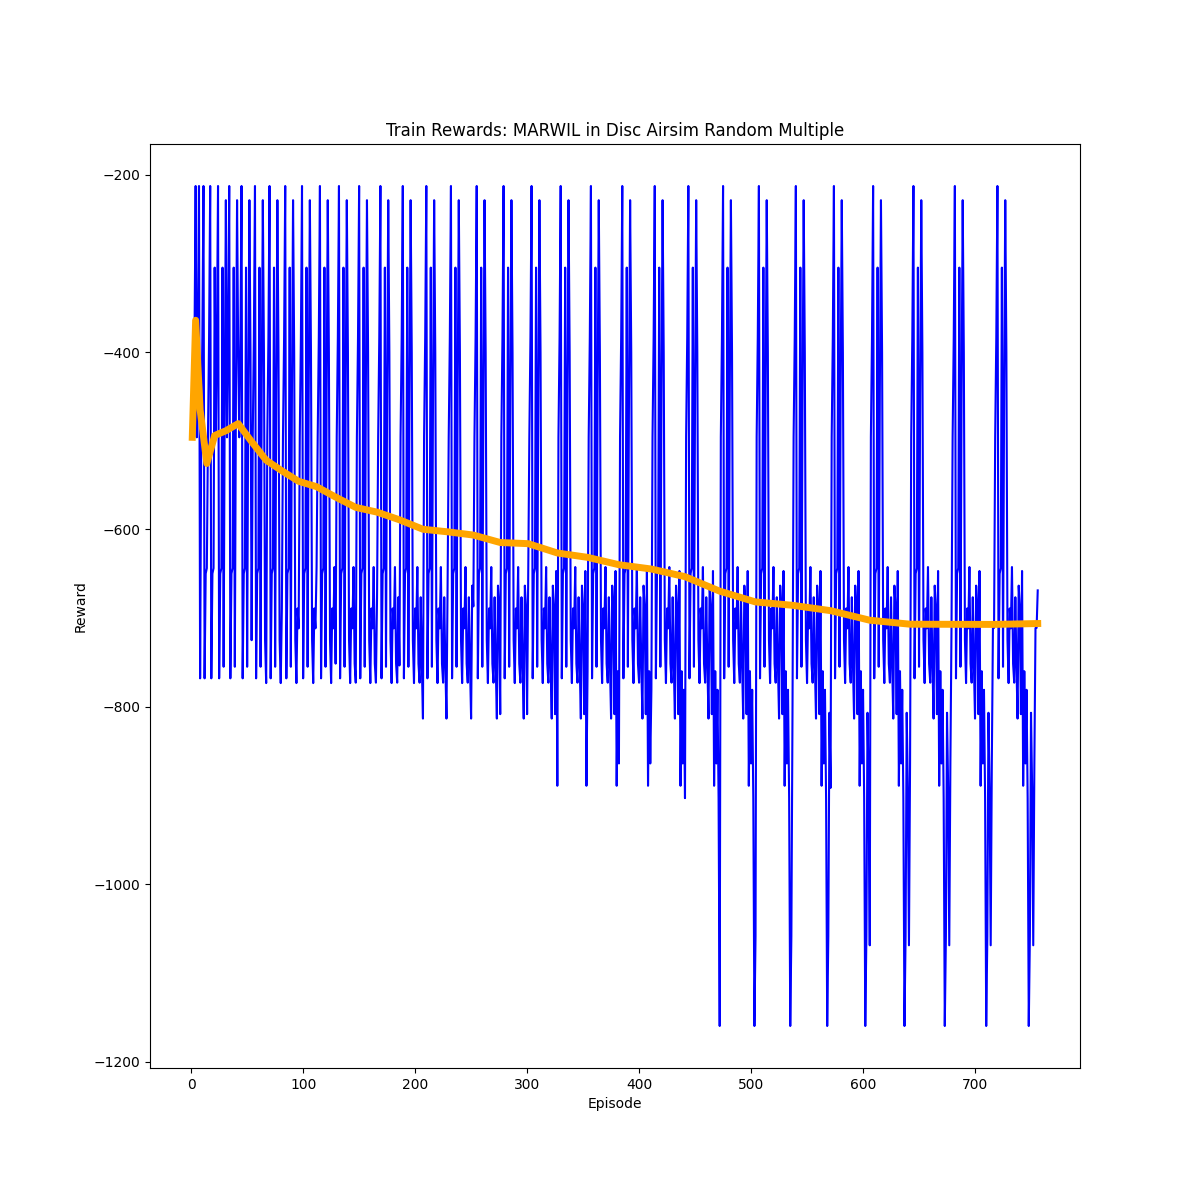
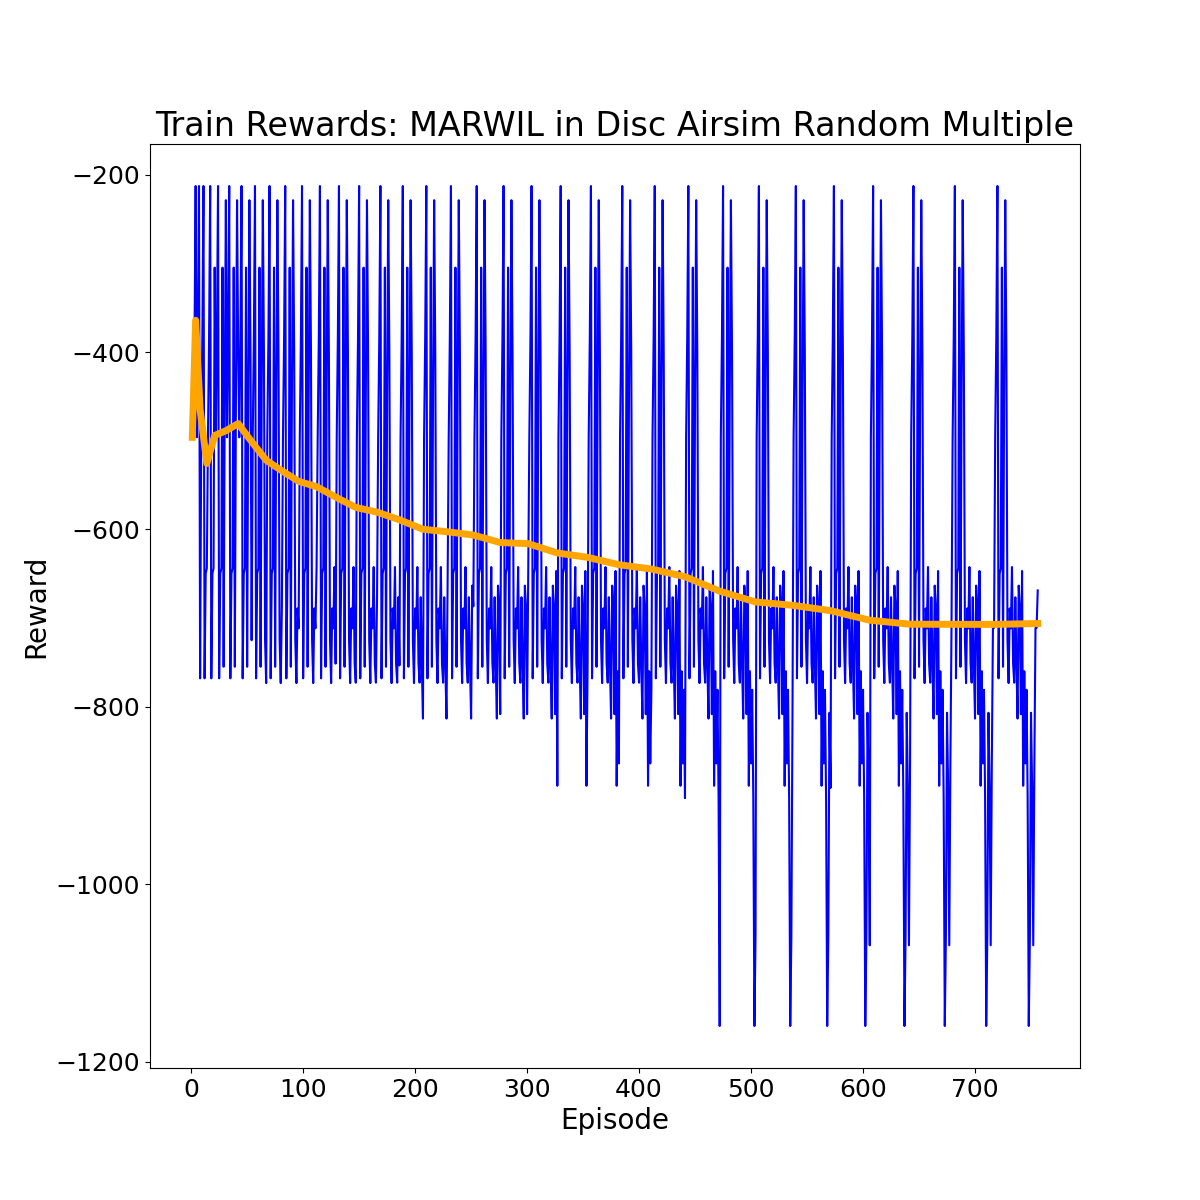
plot font sizes

diff --git a/UAVNavigation/plot_results.py b/UAVNavigation/plot_results.py
@@ -7,8 +7,12 @@ from typing import Union
 
 os.environ["KMP_DUPLICATE_LIB_OK"]="TRUE"
 
-def plot_episode_reward(rewards: Rewards, algo_name: str, env_name: str, env_type: str, reward_type: str, waypoint_type: str, display: bool, x_range: Union[list,None] = None, save_dir: str = 'plots'):
-    
+import os
+import numpy as np
+import matplotlib.pyplot as plt
+from typing import Union
+
+def plot_episode_reward(rewards: Rewards, algo_name: str, env_name: str, env_type: str, reward_type: str, waypoint_type: str, display: bool, x_range: Union[list, None] = None, save_dir: str = 'plots'):
     save_file = f'{save_dir}/{reward_type}/reward_{reward_type}_plot_{env_type}_{env_name}_{algo_name}_{waypoint_type}.png'
     os.makedirs(os.path.dirname(save_file), exist_ok=True)
 
@@ -18,26 +22,112 @@ def plot_episode_reward(rewards: Rewards, algo_name: str, env_name: str, env_typ
         all_rewards, avg_rewards, avg_idxs = rewards.get_eval_rewards()
     else:
         raise ValueError(f'Invalid reward type: {reward_type}. Must be either "train" or "eval".')
-    
+
+    if x_range is not None:
+        new_avg_rewards = []
+        new_avg_idxs = []
+        for i in range(len(avg_rewards)):
+            if x_range[0] <= avg_idxs[i] <= x_range[1]:
+                new_avg_rewards.append(avg_rewards[i])
+                new_avg_idxs.append(avg_idxs[i])
+
+        avg_rewards = new_avg_rewards
+        avg_idxs = new_avg_idxs
+        all_rewards = all_rewards[x_range[0]:avg_idxs[-1]]
+
     # Add first reward with average
     avg_rewards.insert(0, all_rewards[0])
     avg_idxs.insert(0, 1)
-    
+
     # Plot rewards
     plt.figure(figsize=(12, 12))
     x = np.arange(1, len(all_rewards) + 1)
     plt.plot(x, all_rewards, color='blue', zorder=1)
     plt.plot(avg_idxs, avg_rewards, color='orange', linewidth=5, zorder=2)
-    plt.xlabel('Episode')
-    if x_range is not None:
-        plt.xlim(x_range)
-    plt.ylabel('Reward')
+    
+    # Set labels with increased fontsize
+    plt.xlabel('Episode', fontsize=20)
+    plt.ylabel('Reward', fontsize=20)
+    
+    # Set the title with increased fontsize
     waypoint_string = " ".join([cap_first(word) for word in waypoint_type.split("_")])
-    plt.title(f'{cap_first(reward_type)} Rewards: {algo_name.upper()} in {cap_first(env_type)} {cap_first(env_name)} {waypoint_string}')
+    plt.title(f'{cap_first(reward_type)} Rewards: {algo_name.upper()} in {cap_first(env_type)} {cap_first(env_name)} {waypoint_string}', fontsize=24)
+    
+    # Adjust tick parameters for both axes
+    plt.tick_params(axis='both', which='major', labelsize=18)
+    plt.tick_params(axis='both', which='minor', labelsize=16)
+    
+    # Save and display plot
     plt.savefig(save_file)
     if display:
         plt.show()
     else:
         plt.close()
-        
+
     return save_file
+
+
+if __name__ == '__main__':
+    waypoint_str = "random_multiple"
+    reward_type = "train"
+    env_var = "airsim"
+    
+    algorithm = "ppo"
+    env_type = "disc"
+    x_range = [0, 2000]
+    
+    reward_root = f"rewards/{algorithm}/{env_type}/{env_var}/{waypoint_str}/rewards.pkl"
+    all_episode_rewards = Rewards()
+    all_episode_rewards.restore_rewards(reward_root)
+    
+    plot_episode_reward(all_episode_rewards, algorithm, env_var, env_type, reward_type, waypoint_str, display=True, x_range=x_range)
+    
+    algorithm = "ppo"
+    env_type = "cont"
+    x_range = [0, 2000]
+    
+    reward_root = f"rewards/{algorithm}/{env_type}/{env_var}/{waypoint_str}/rewards.pkl"
+    all_episode_rewards = Rewards()
+    all_episode_rewards.restore_rewards(reward_root)
+    
+    plot_episode_reward(all_episode_rewards, algorithm, env_var, env_type, reward_type, waypoint_str, display=True, x_range=x_range)
+    
+    algorithm = "marwil"
+    env_type = "disc"
+    x_range = None
+    
+    reward_root = f"rewards/{algorithm}/{env_type}/{env_var}/{waypoint_str}/rewards.pkl"
+    all_episode_rewards = Rewards()
+    all_episode_rewards.restore_rewards(reward_root)
+    
+    plot_episode_reward(all_episode_rewards, algorithm, env_var, env_type, reward_type, waypoint_str, display=True, x_range=x_range)
+    
+    algorithm = "marwil"
+    env_type = "cont"
+    x_range = None
+    
+    reward_root = f"rewards/{algorithm}/{env_type}/{env_var}/{waypoint_str}/rewards.pkl"
+    all_episode_rewards = Rewards()
+    all_episode_rewards.restore_rewards(reward_root)
+    
+    plot_episode_reward(all_episode_rewards, algorithm, env_var, env_type, reward_type, waypoint_str, display=True, x_range=x_range)
+    
+    algorithm = "sac"
+    env_type = "disc"
+    x_range = None
+    
+    reward_root = f"rewards/{algorithm}/{env_type}/{env_var}/{waypoint_str}/rewards.pkl"
+    all_episode_rewards = Rewards()
+    all_episode_rewards.restore_rewards(reward_root)
+    
+    plot_episode_reward(all_episode_rewards, algorithm, env_var, env_type, reward_type, waypoint_str, display=True, x_range=x_range)
+    
+    algorithm = "sac"
+    env_type = "cont"
+    x_range = None
+    
+    reward_root = f"rewards/{algorithm}/{env_type}/{env_var}/{waypoint_str}/rewards.pkl"
+    all_episode_rewards = Rewards()
+    all_episode_rewards.restore_rewards(reward_root)
+    
+    plot_episode_reward(all_episode_rewards, algorithm, env_var, env_type, reward_type, waypoint_str, display=True, x_range=x_range)
